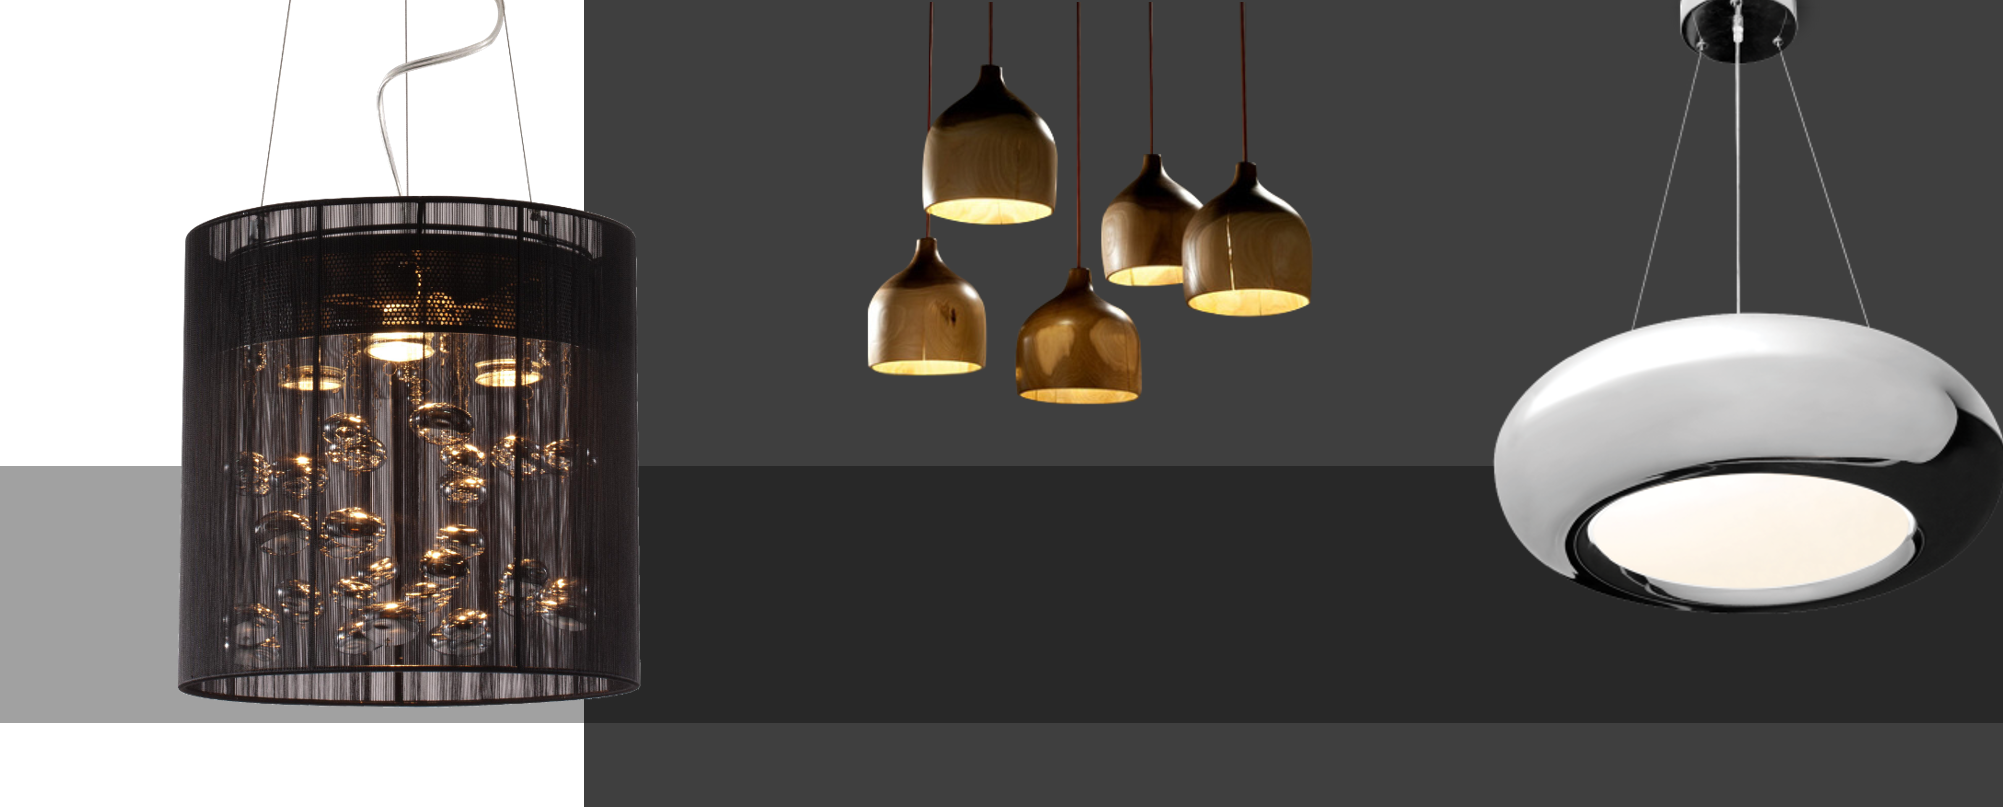
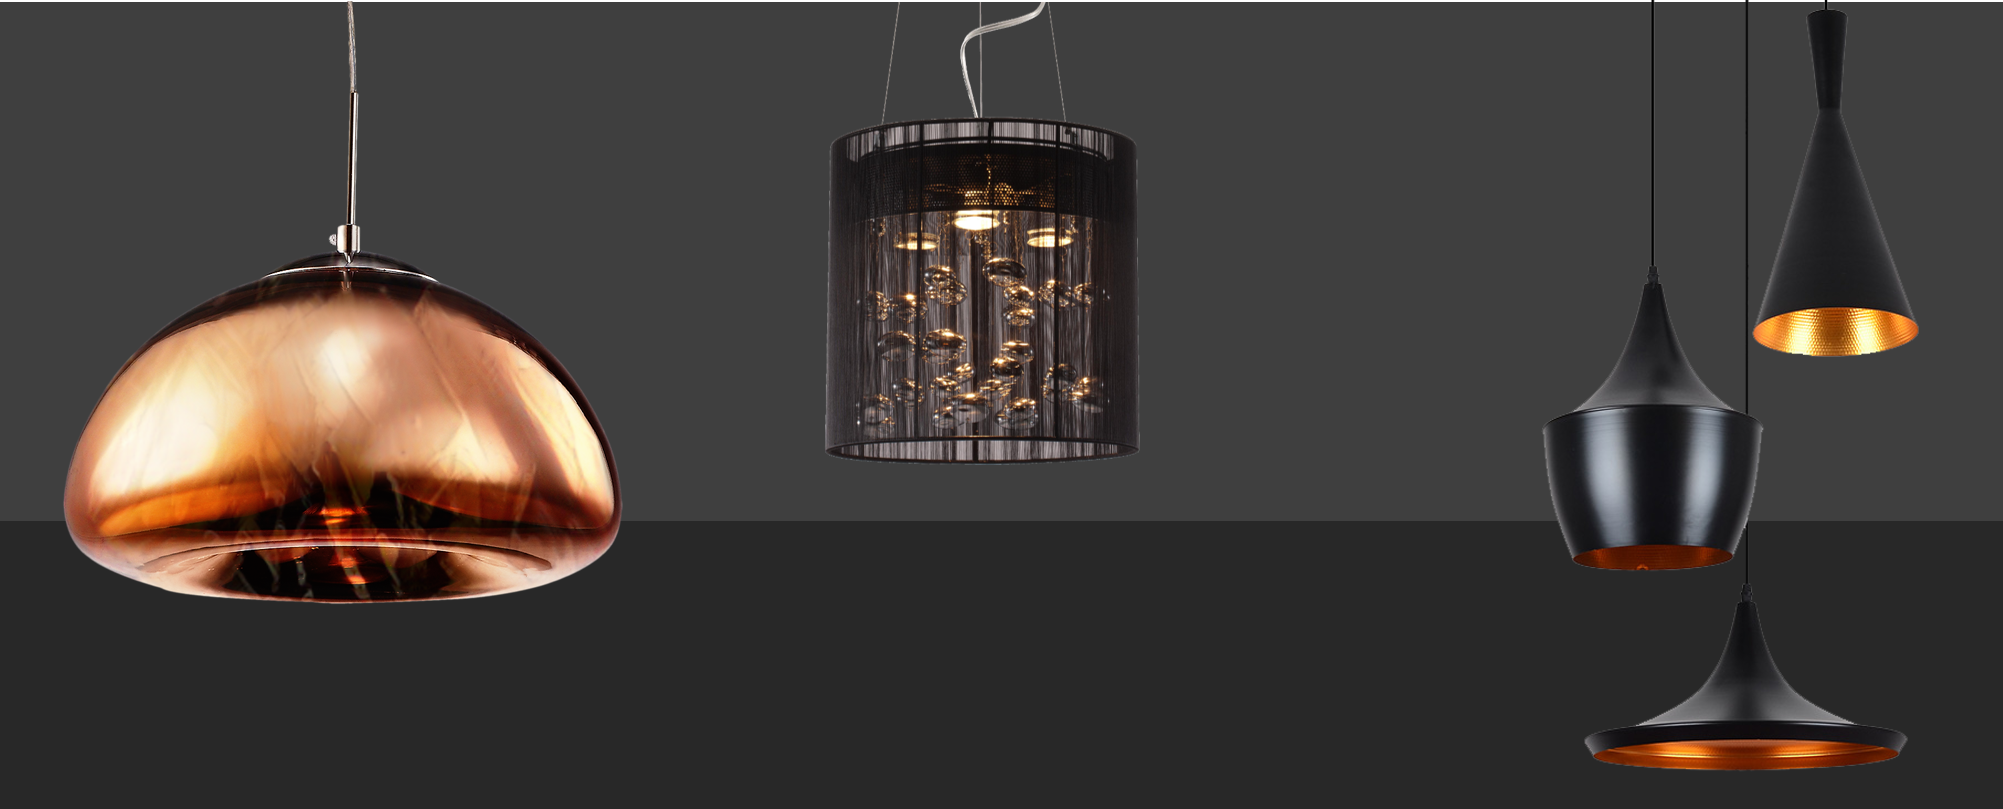
actualización slider

diff --git a/views/contactanosAsesor.html b/views/contactanosAsesor.html
@@ -131,7 +131,7 @@
                           </div>
                           <div class="col-md-6">
                             <label for="inputTel" class="form-label">Telefono/Celular</label>
-                            <input type="phone" class="form-control" id="inputTel"required>
+                            <input type="phone" class="form-control is-valid" id="inputTel" required>
                           </div>
                                               
                           <div class="col-12">
@@ -148,12 +148,31 @@
                           <div class="col-md-4">
                             <label for="inputState" class="form-label">Provincia</label>
                             <select id="inputState" class="form-select">
-                                <option selected>Seleccionar...</option>
-                                <option>Buenos Aires</option>
-                                <option>Cordoba</option>
-                                <option>Santa Fe</option>
-                                <option>San Luis</option>
-                                <option>Mendoza</option>
+                              <option selected>Seleccionar...</option>
+                              <option>Buenos Aires</option>
+                              <option>Capital Federal</option>
+                              <option>Catamarca</option>
+                              <option>Chaco</option>
+                              <option>Chubut</option>
+                              <option>Córdoba</option>
+                              <option>Corrientes</option>
+                              <option>Entre Ríos</option>
+                              <option>Formosa</option>
+                              <option>Jujuy</option>
+                              <option>La Pampa</option>
+                              <option>La Rioja</option>
+                              <option>Mendoza</option>
+                              <option>Misiones</option>
+                              <option>Neuquén</option>
+                              <option>Río Negro</option>
+                              <option>Salta</option>
+                              <option>San Juan</option>
+                              <option>San Luis</option>
+                              <option>Santa Cruz</option>
+                              <option>Santa Fe</option>
+                              <option>Santiago del Estero</option>
+                              <option>Tierra del Fuego</option>
+                              <option>Tucumán</option>
                             </select>
                           </div>
                         
@@ -163,12 +182,12 @@
                           </div>
 
                           <div class="form-group">
-                            <label for="FormComAdic">Comentarios Adicionales</label>
+                            <label for="FormComAdic">Contános sobre tu proyecto o idea</label>
                             <textarea class="form-control" id="FormComAdic" rows="3"></textarea>
                           </div>
                           
                           <div class="mb-3">
-                            <label for="formFile" class="form-label">Cargar documentación adicional</label>
+                            <label for="formFile" class="form-label">Cargar documentación adicional (Paleta de colores, foto del espacio a trabajar, etc) </label>
                             <input class="form-control" type="file" id="formFile">
                           </div>
                         

diff --git a/views/nosotros.html b/views/nosotros.html
@@ -70,7 +70,7 @@
 
       <div class="row text-center justify-content-evenly">
           <div class="col-lg-3">
-            <img src="../imagenes/Quienes Somos/ArielFerreyra200.png" alt="Imagen Owner" class="bd-placeholder-img rounded-circle img-thumbnail" width="140" height="140">
+            <img src="../imagenes/Quienes Somos/arielFerreyraVigo.png" alt="Imagen Owner" class="bd-placeholder-img rounded-circle img-thumbnail" width="140" height="140">
 
             <h2 class="minusMar">FOUNDER</h2>
             <p class="minusPad minusMar">ARIEL FERREYRA</p>
@@ -96,7 +96,7 @@
           </div>
 
           <div class="col-lg-3">
-            <svg class="bd-placeholder-img rounded-circle" width="140" height="140" xmlns="http://www.w3.org/2000/svg" role="img" aria-label="Placeholder: 140x140" preserveAspectRatio="xMidYMid slice" focusable="false"><title>Placeholder</title><rect width="100%" height="100%" fill="#777"/><text x="50%" y="50%" fill="#777" dy=".3em">140x140</text></svg>
+            <img src="../imagenes/Quienes Somos/juanantonioEraso.png" alt="Imagen Owner" class="bd-placeholder-img rounded-circle img-thumbnail" width="140" height="140">
             <h2 class="minusMar">DISEÑADOR</h2>
             <p class="minusPad minusMar">JUAN ERASO</p>
                  <div class="btn-group p-1 ">
@@ -119,9 +119,9 @@
           </div>
 
           <div class="col-lg-3">
-            <svg class="bd-placeholder-img rounded-circle" width="140" height="140" xmlns="http://www.w3.org/2000/svg" role="img" aria-label="Placeholder: 140x140" preserveAspectRatio="xMidYMid slice" focusable="false"><title>Placeholder</title><rect width="100%" height="100%" fill="#777"/><text x="50%" y="50%" fill="#777" dy=".3em">140x140</text></svg>
+            <img src="../imagenes/Quienes Somos/moraMercader.jpg" alt="Imagen Owner" class="bd-placeholder-img rounded-circle img-thumbnail" width="140" height="140">
             <h2 class="minusMar">DISEÑADORA</h2>
-            <p class="minusPad minusMar">MORA MURIEL</p>         
+            <p class="minusPad minusMar">MORA MERCADER</p>         
                 <div class="btn-group p-1 ">
                   <button type="button" class="btn btn-outline-secondary ">
                     <svg xmlns="http://www.w3.org/2000/svg" width="16" height="16" fill="currentColor" class="bi bi-linkedin" viewBox="0 0 16 16">
@@ -145,7 +145,7 @@
           </div>
 
           <div class="col-lg-3">
-            <svg class="bd-placeholder-img rounded-circle" width="140" height="140" xmlns="http://www.w3.org/2000/svg" role="img" aria-label="Placeholder: 140x140" preserveAspectRatio="xMidYMid slice" focusable="false"><title>Placeholder</title><rect width="100%" height="100%" fill="#777"/><text x="50%" y="50%" fill="#777" dy=".3em">140x140</text></svg>
+            <img src="../imagenes/Quienes Somos/auroraMercade.jpg" alt="Imagen Owner" class="bd-placeholder-img rounded-circle img-thumbnail" width="140" height="140">
             <h2 class="minusMar">COMUNICACIÓN</h2>
             <p class="minusPad minusMar">AURORA MERCADÉ</p>         
                 <div class="btn-group p-1 ">

diff --git a/views/contactanosAtCliente.html b/views/contactanosAtCliente.html
@@ -122,7 +122,7 @@
                           </div>
                           <div class="col-md-6">
                             <label for="inputTel" class="form-label">Telefono/Celular</label>
-                            <input type="phone" class="form-control" id="inputTel" required>
+                            <input type="phone" class="form-control is-valid" id="inputTel" required>
                           </div>
                                               
                           <div class="col-12">
@@ -141,10 +141,30 @@
                             <select id="inputState" class="form-select">
                                 <option selected>Seleccionar...</option>
                                 <option>Buenos Aires</option>
-                                <option>Cordoba</option>
-                                <option>Santa Fe</option>
-                                <option>San Luis</option>
+                                <option>Capital Federal</option>
+                                <option>Catamarca</option>
+                                <option>Chaco</option>
+                                <option>Chubut</option>
+                                <option>Córdoba</option>
+                                <option>Corrientes</option>
+                                <option>Entre Ríos</option>
+                                <option>Formosa</option>
+                                <option>Jujuy</option>
+                                <option>La Pampa</option>
+                                <option>La Rioja</option>
                                 <option>Mendoza</option>
+                                <option>Misiones</option>
+                                <option>Neuquén</option>
+                                <option>Río Negro</option>
+                                <option>Salta</option>
+                                <option>San Juan</option>
+                                <option>San Luis</option>
+                                <option>Santa Cruz</option>
+                                <option>Santa Fe</option>
+                                <option>Santiago del Estero</option>
+                                <option>Tierra del Fuego</option>
+                                <option>Tucumán</option>
+                               
                             </select>
                           </div>
                         

diff --git a/views/productos.html b/views/productos.html
@@ -70,7 +70,7 @@
     </div>
     <div class="carousel-inner">
       <div class="carousel-item active">
-        <img src="../imagenes/Slider/Imagen1_moreBlue.png" class="d-block w-100" alt="..." > <!-- Dejo tres puntos porque queda mas prolijo en el caso que falle la carga de la foto-->
+        <img src="../imagenes/Slider/productos/sProductos1.png" class="d-block w-100" alt="..." > <!-- Dejo tres puntos porque queda mas prolijo en el caso que falle la carga de la foto-->
         <div class="carousel-caption d-none d-md-block">
             <div >
               <h2 class="colorH2 raleway">SIMPLE | TU PERSONALIDAD</h2>
@@ -81,21 +81,20 @@
         </div>
       </div>
       <div class="carousel-item">
-        <img src="../imagenes/Slider/Imagen2_moreBlack.png" class="d-block w-100" alt="...">
+        <img src="../imagenes/Slider/productos/sProductos2.png" class="d-block w-100" alt="...">
         <div class="carousel-caption d-none d-md-block">
-          <h2 class="colorH2Blanco raleway">ILUMINÁ CON TU PERSONALIDAD</h2>
-          <button class="btn btn-dark btn-xl">DESCUBRILO</button>
+          <h2 class="colorH2Blanco raleway">ILUMINACIÓN</h2>
           <h5>COLECCIÓN INVIERNO 2021</h5>
-          <p>Lorem ipsum dolor sit amet consectetur. </p>
+          <p class="colorH2Blanco raleway">Refleja tu personalidad en cada detalle de tu hogar</p>
+          <button class="btn btn-light btn-xl">DESCUBRILA</button>
         </div>
       </div>
       <div class="carousel-item">
-        <img src="../imagenes/Slider/Imagen3_moreBrown.png" class="d-block w-100" alt="...">
+        <img src="../imagenes/Slider/productos/sProductos3.png" class="d-block w-100" alt="...">
         <div class="carousel-caption d-none d-md-block">
-          <h2 class="colorH2Blanco raleway">EXPRESAR TU PERSONALIDAD</h2>
+          <h2 class="colorH2 raleway">EXPRESAR TU PERSONALIDAD</h2>
+          <p class="raleway">Una forma de expresión de nuestra manera de ser</p>
           <button class="btn btn-dark btn-xl">DESCUBRILO</button>
-          <h5>Expresar tu personalidad</h5>
-          <p>Gran variedad de estilos y las últimas tendencias para el hogar</p>
         </div>
       </div>
     </div>

diff --git a/views/home.html b/views/home.html
@@ -73,23 +73,26 @@
     </div>
     <div class="carousel-inner">
       <div class="carousel-item active">
-        <img src="../imagenes/Slider/index/imgSlider1.png" class="d-block w-100" alt="..." > <!-- Dejo tres puntos porque queda mas prolijo en el caso que falle la carga de la foto-->
+        <img src="../imagenes/Slider/index/imgSlider1a.png" class="d-block w-100" alt="..." > <!-- Dejo tres puntos porque queda mas prolijo en el caso que falle la carga de la foto-->
         <div class="carousel-caption d-none d-md-block">
             <div >
               <h2 class="colorH2 raleway">SIMPLE | TU PERSONALIDAD</h2>
+              <p>Tu espacio refleja tu estilo. Házlo único </p>
               <button class="btn btn-dark btn-xl">DESCUBRILO</button>
-              <h5>Lorem, ipsum dolor.</h5>
-              <p>Lorem ipsum dolor sit amet consectetur. </p>
+
           </div>
         </div>
       </div>
       <div class="carousel-item">
         <img src="../imagenes/Slider/index/imgSlider2.png" class="d-block w-100" alt="...">
-        <div class="carousel-caption d-none d-md-block text-end">
+        <div class="carousel-caption d-none d-md-block">
           <h2 class="colorH2Blanco raleway">ILUMINÁ CON TU PERSONALIDAD</h2>
+        
+          <h5 class="raleway">Capaces de aportar al espacio importantes dosis de estilo y personalidad</h5>
+      <!--    <h5 class="raleway">dosis de estilo y personalidad</h5> -->
+
           <button class="btn btn-dark btn-xl">DESCUBRILO</button>
-          <h5>Lorem, ipsum dolor.</h5>
-          <p>Lorem ipsum dolor sit amet consectetur. </p>
+
         </div>
       </div>
       <div class="carousel-item">
@@ -97,8 +100,7 @@
         <div class="carousel-caption d-none d-md-block">
           <h2 class="colorH2Blanco raleway">EXPRESAR TU PERSONALIDAD</h2>
           <button class="btn btn-dark btn-xl">DESCUBRILO</button>
-          <h5>Expresar tu personalidad</h5>
-          <p>Gran variedad de estilos y las últimas tendencias para el hogar</p>
+          <h5 class="raleway">Gran variedad de estilos y las últimas tendencias para el hogar</h5>
         </div>
       </div>
       <div class="carousel-item">

diff --git a/views/galleryTemporadaInviernoSillas.html b/views/galleryTemporadaInviernoSillas.html
@@ -21,7 +21,7 @@
    <div class="fondoImagenTempInvierno">
       <header>
          <span class="navModal punteroMouse" onclick="openNav()">&#9776; </span>
-       </header>
+      </header>
    
    
    <!-- Bem: Footer - SideNav - Boton para disparar modal oferta - Lista de Temporada Actual-->
@@ -41,10 +41,13 @@
     </div>
     
     <div class="centrarTitulos">
-    
+
       <H1 class="fontDancing">Colección</H1>    
       
       <h1 class="fontHind"> OTOÑO|INVIERNO</h1>
+      <div class= "text-center">          
+        <img src="../imagenes/logo/logoEDSimple.png" class="imgLogo" alt="...">
+     </div>
     </div>
 
     

diff --git a/css/estilosEsDesign.css b/css/estilosEsDesign.css
@@ -50,13 +50,6 @@ font-family: 'Reenie Beanie', cursive;
 
 
 
-/*font-family: 'Open Sans', sans-serif;
-font-family: 'Open Sans Condensed', sans-serif;*/
-
-
-
-
-
 .cedarville{
   font-family: 'Cedarville Cursive', cursive ;
 }
@@ -91,7 +84,7 @@ padding: 15px;
 
 header {
    
-    padding: 5px 15px 8px 15px;
+    padding: 5px 15px 7px 15px;
      background-color: rgb(218, 218, 218);
      color: rgb(141, 141, 141);
      text-decoration:none;

diff --git a/css/styleTemporadaInvierno.css b/css/styleTemporadaInvierno.css
@@ -35,6 +35,11 @@ img{
 	max-width: 100%;
 }
 
+.imgLogo{
+  width: 400px;
+  height: 58px;
+}
+
 .gallery{
 	padding: 30px 0;
 	align-items: center;
